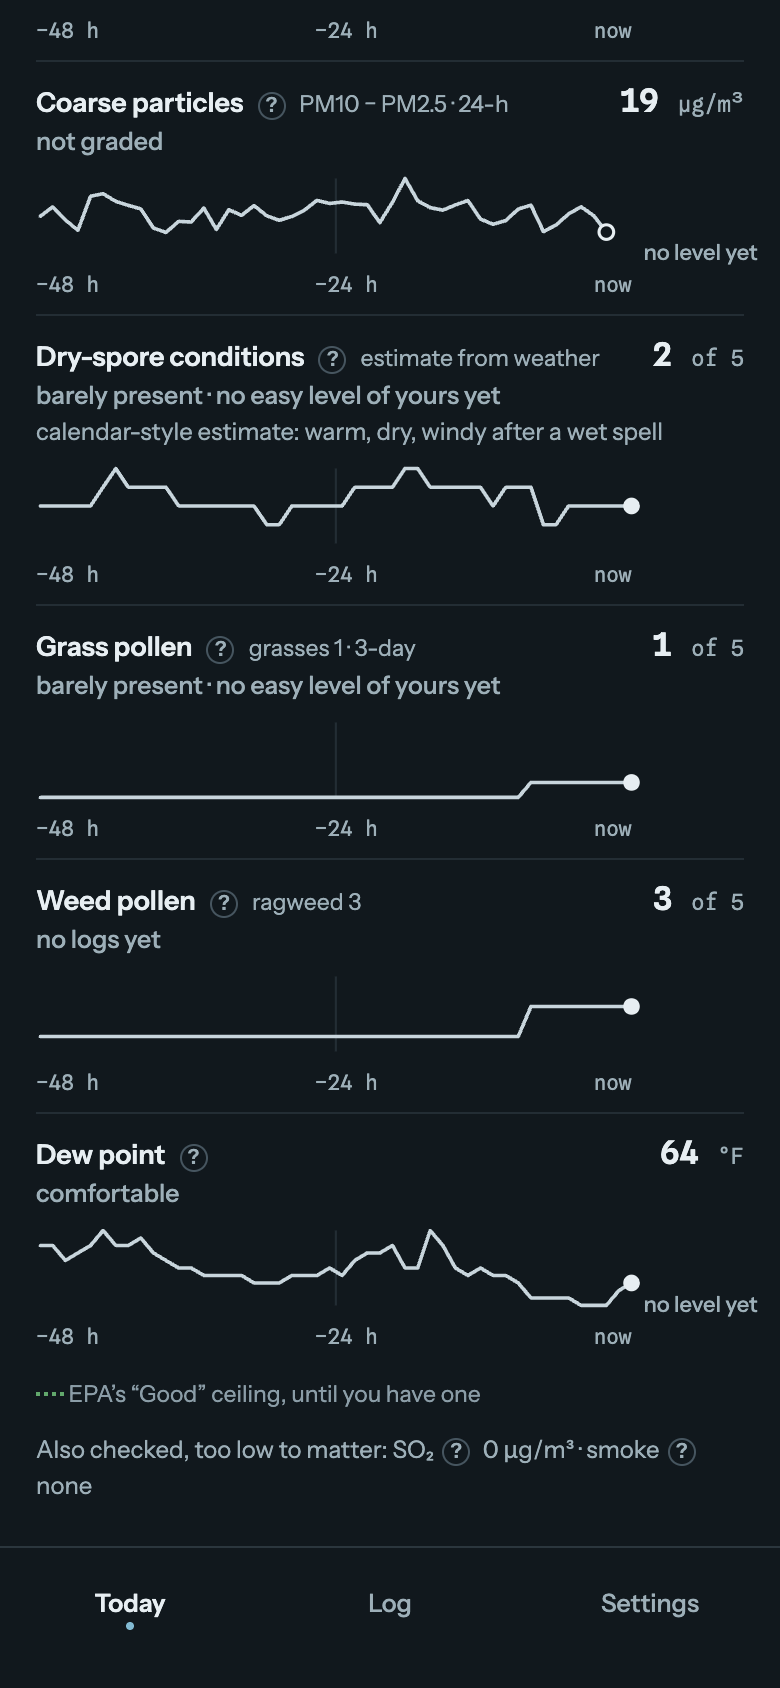
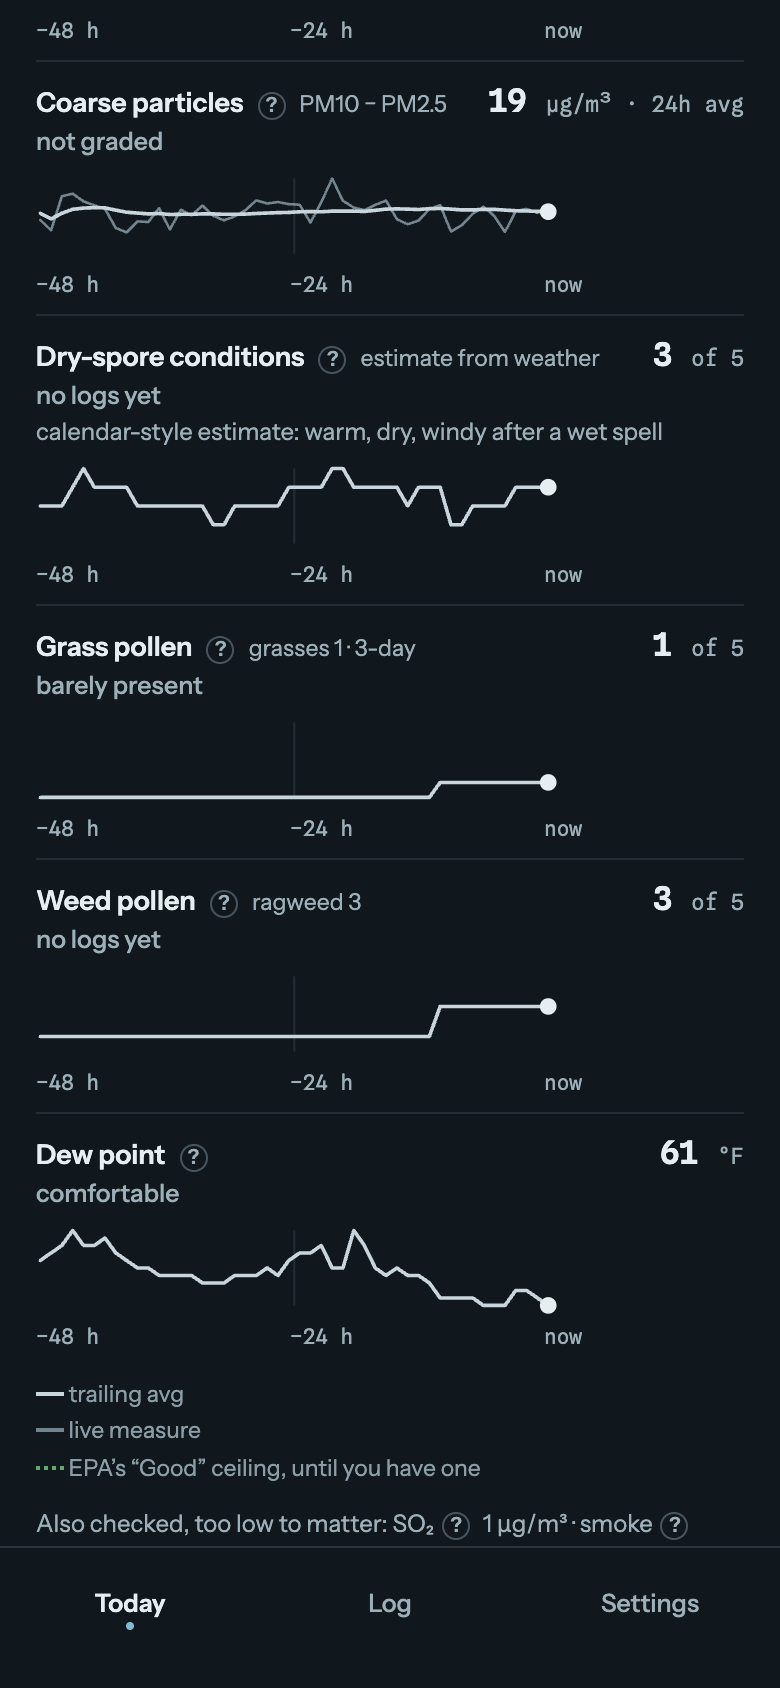
Recapture the screenshots against current main
The air table changed under them: rows now draw the trailing average the
figure and verdict actually speak about, with the live hourly kept as a
quieter line underneath, and the section carries a legend naming the two.
The shots taken before that merge showed a single line and no legend, so
they were stale again within hours of the last recapture.

Also swaps the third image. The Log screen with no entries reads "0
entries" over four rows of "no evidence yet either way", which is honest
and sells nothing; the first-run screen makes the argument the project
exists to make. The Log screen stays in docs/img and is still linked.

Captured against production, which has both of today's merges deployed,
so the monitor path is live rather than the model fallback a local run
gets from the relay's CORS allowlist.

diff --git a/README.md b/README.md
@@ -6,10 +6,10 @@ A personal air quality PWA. Live at [breathingindex.com](https://breathingindex.
 <tr>
 <td width="33%"><img src="docs/img/dark-today.png" alt="The Today screen: a four-button breathing rating, a forecast marked unpersonalized, and the first three measurements."></td>
 <td width="33%"><img src="docs/img/dark-air.png" alt="The rest of In the air: coarse particles, dry-spore conditions, grass and weed pollen, and dew point, each with a 48-hour trace."></td>
-<td width="33%"><img src="docs/img/dark-diary.png" alt="The Log screen with no entries, showing every variable still marked no evidence yet either way."></td>
+<td width="33%"><img src="docs/img/dark-intro.png" alt="The first screen: the AQI is not calibrated for your lungs, the four ratings explained, and a note that logs never leave the phone."></td>
 </tr>
 <tr>
-<td colspan="3" align="center"><em>Los Angeles, on a day with nothing much wrong with the air. Every variable is shown separately, and every one is labelled with what your own logs do or do not yet say about it.</em></td>
+<td colspan="3" align="center"><em>Los Angeles, on a day with nothing much wrong with the air. Every variable gets its own row, its own trailing average over the live measure, and its own note about what your logs do or do not yet say. The third screen is what a first-time visitor lands on.</em></td>
 </tr>
 </table>
 
@@ -44,7 +44,7 @@ Freshness comes from the payload's own newest hour rather than from when the res
 
 Temperatures display in °F for browsers whose locale resolves to a Fahrenheit region and °C everywhere else, overridable in Settings. Stored exposures are always metric, so the setting relabels the display and never rewrites logged history.
 
-The palette follows `prefers-color-scheme`, with no manual toggle: a 4 AM breathing check should not be a flashlight to the face, and the four severity colours are re-pointed rather than inverted so the quiet end of the ramp stays quiet on a dark ground. Every screenshot in this README is the dark palette at phone size; [Settings](docs/img/dark-settings.png) and the [first-run screen](docs/img/dark-intro.png) are in `docs/img/` too.
+The palette follows `prefers-color-scheme`, with no manual toggle: a 4 AM breathing check should not be a flashlight to the face, and the four severity colours are re-pointed rather than inverted so the quiet end of the ramp stays quiet on a dark ground. Every screenshot in this README is the dark palette at phone size; [Settings](docs/img/dark-settings.png) and the [Log screen](docs/img/dark-diary.png) are in `docs/img/` too.
 
 Analytics is Mixpanel, lazy-loaded, pseudonymous (a device ID, not an account) and content-free: events record that a screen was viewed or an entry saved, never what was rated, tagged, noted, or measured, and IP geolocation is off. Turn it off entirely in Settings. Fonts are self-hosted, so the app makes no third-party request for chrome either.
 
